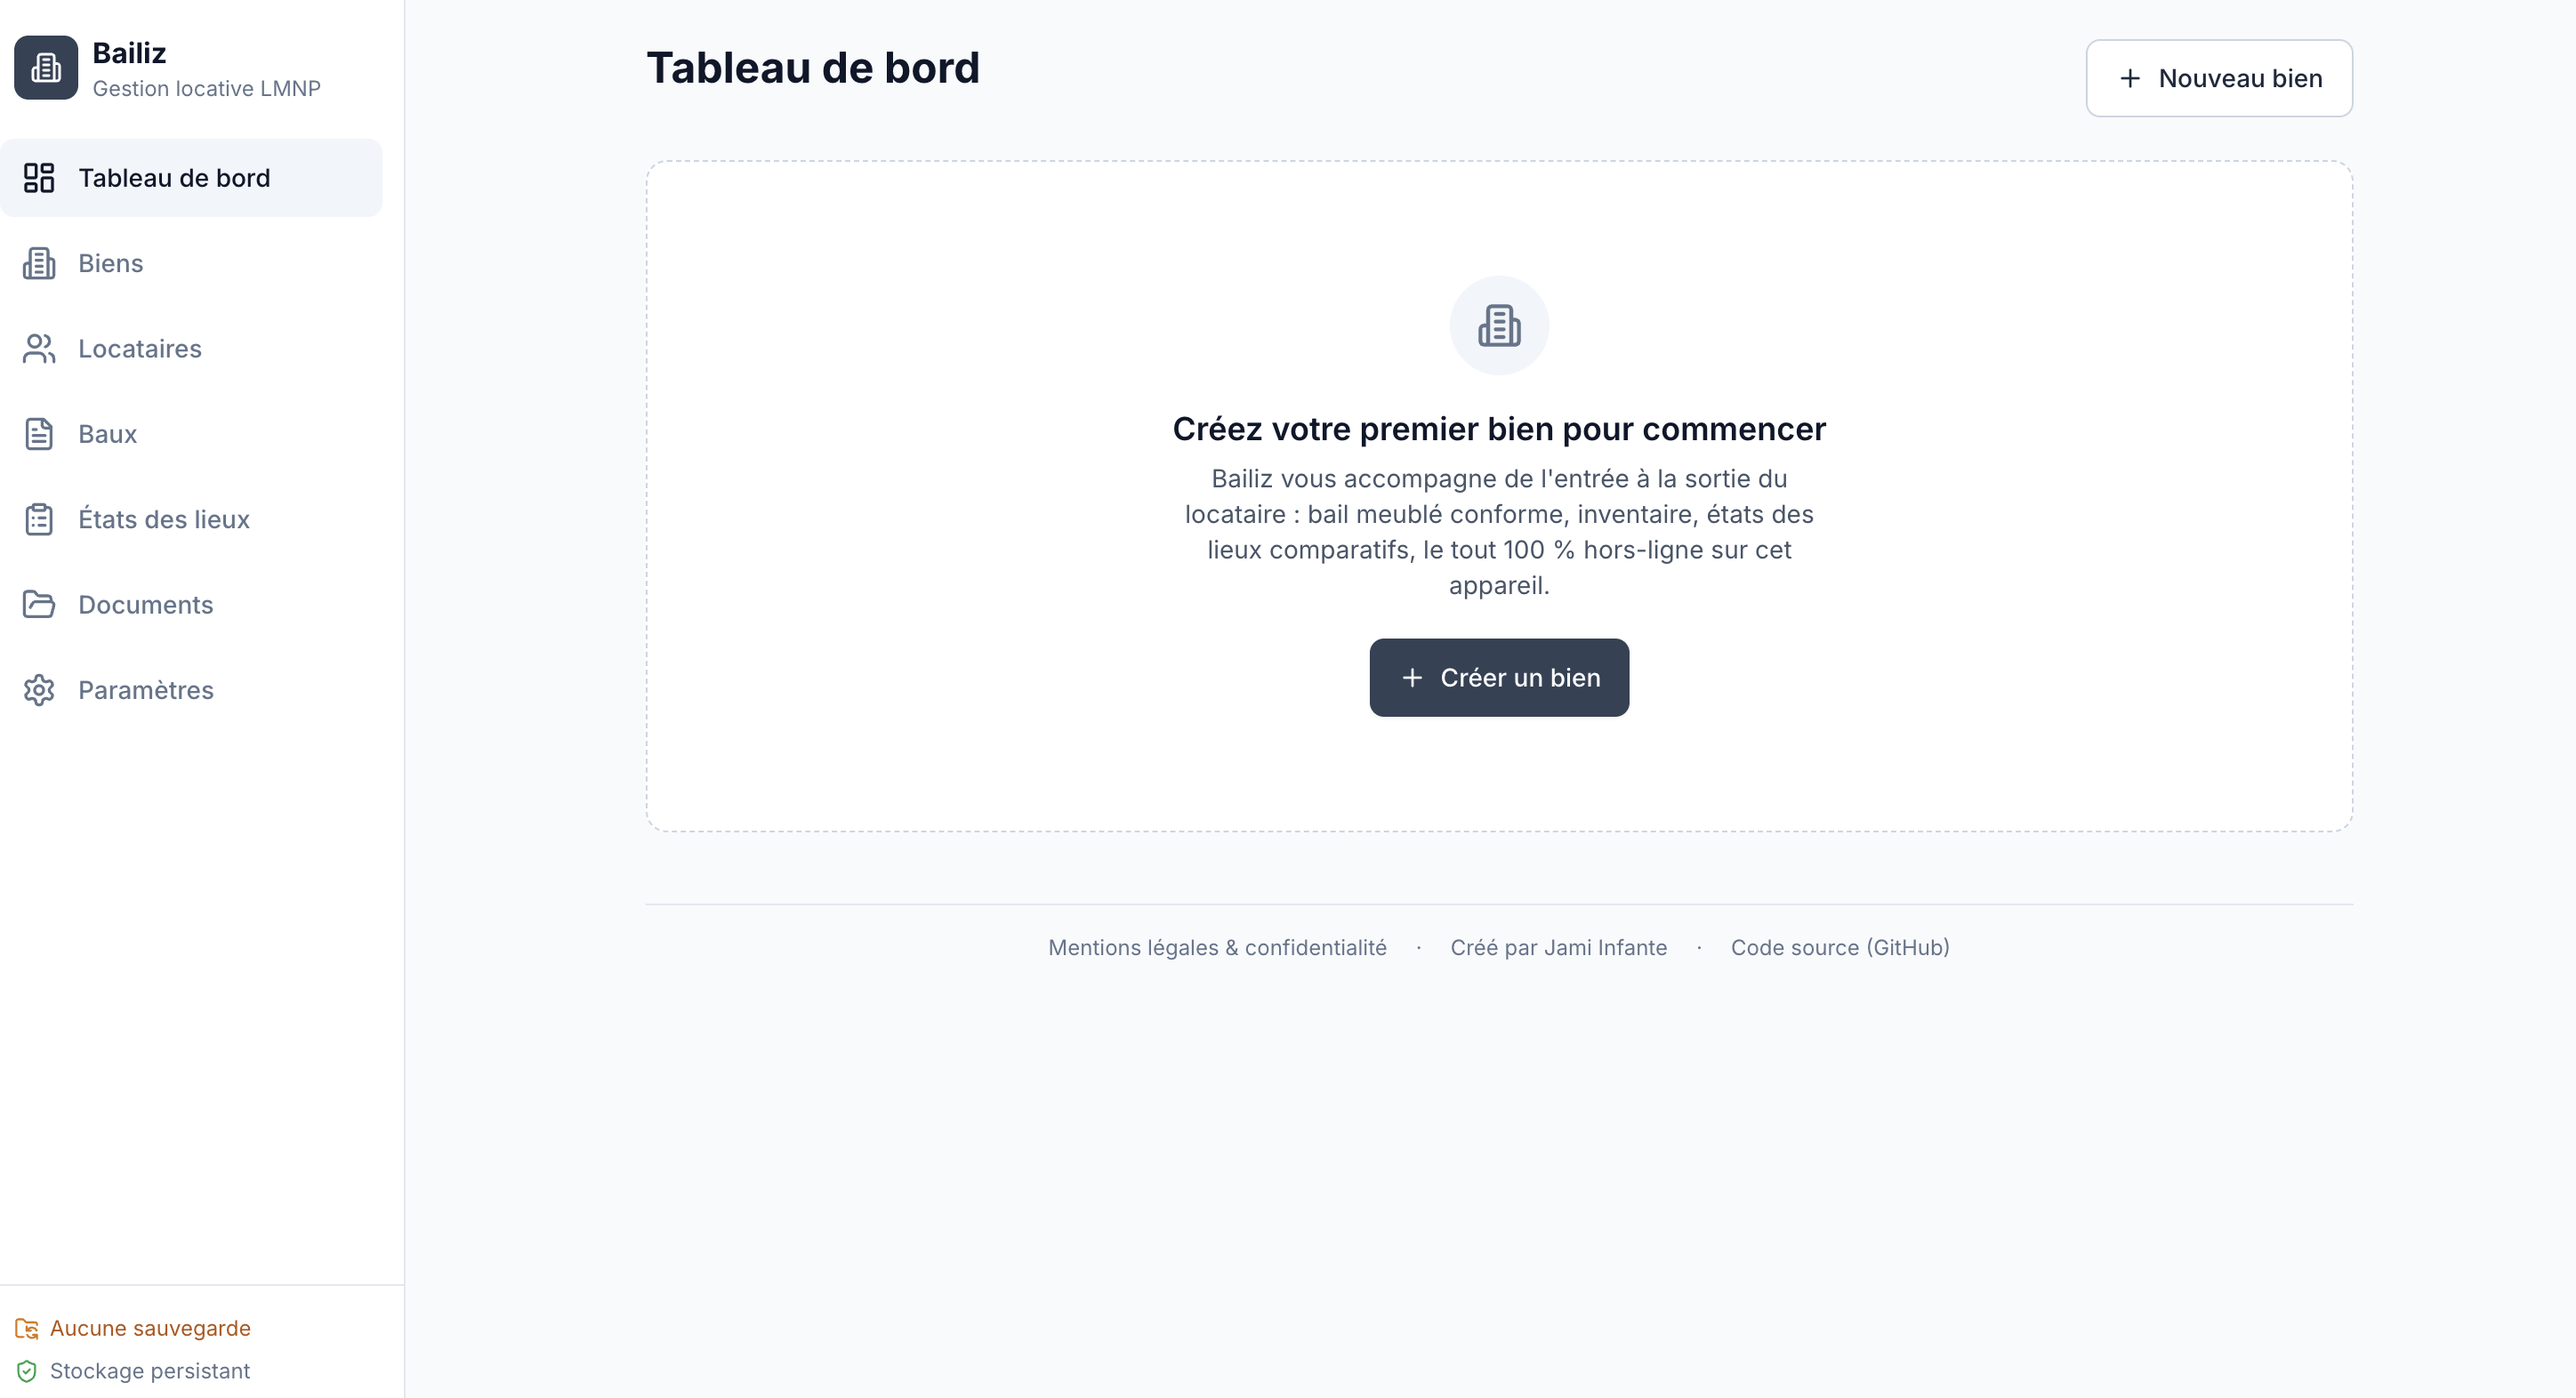
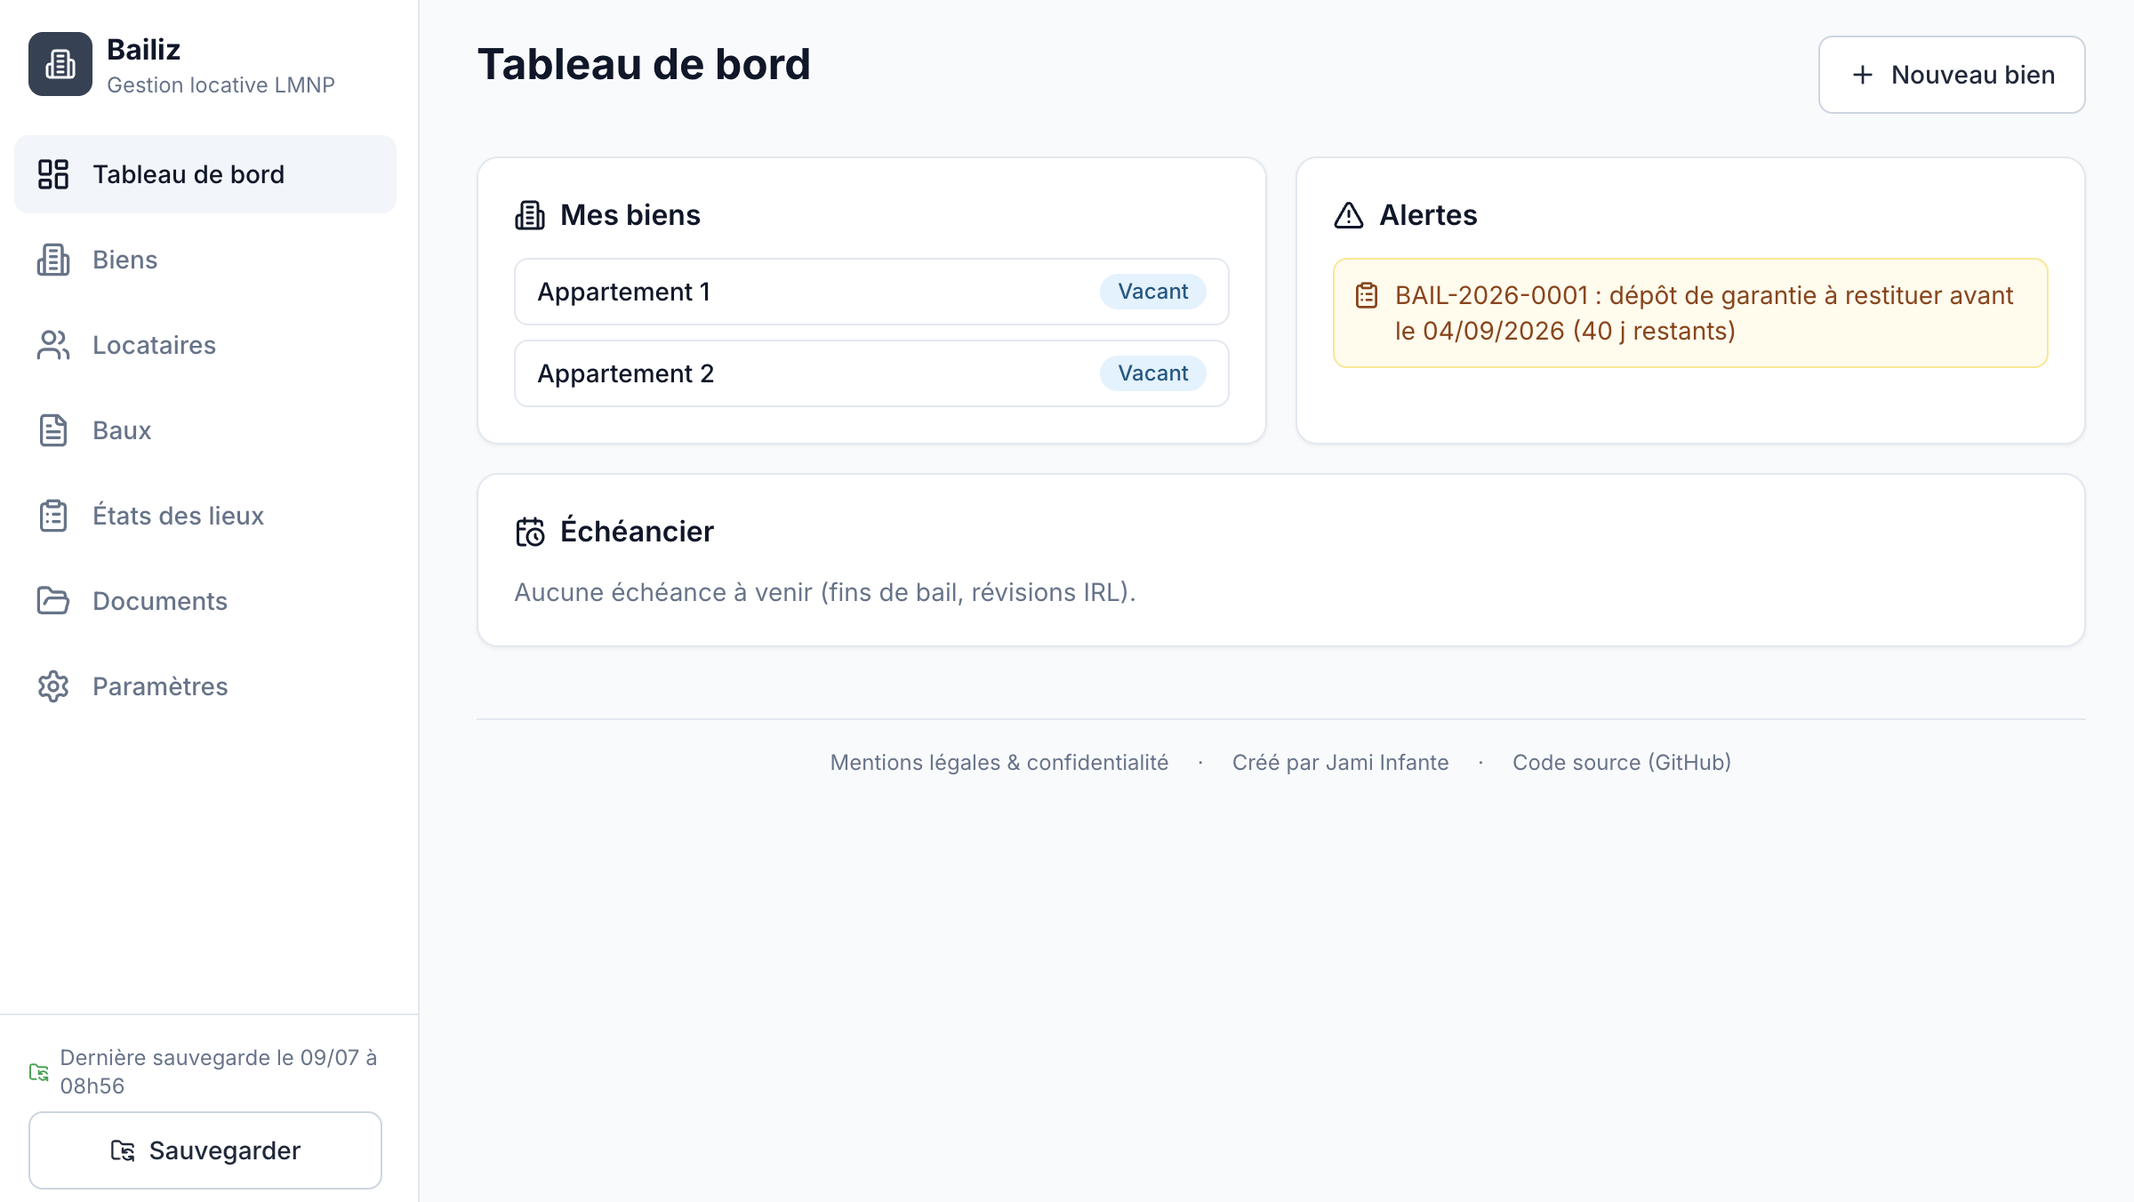
UPD : images projet + content

diff --git a/src/content/projects/portfolio-2026.md b/src/content/projects/portfolio-2026.md
@@ -25,7 +25,7 @@ crème / encre / vert acide, typographies Space Grotesk et Space Mono, cadres
 - **Design system de composants** - La typographie et les motifs récurrents
   (titres display, labels monospace, boutons, images encadrées, tags,
   surlignage accent) n'existent qu'à un seul endroit, sous forme de composants
-  Astro réutilisables. Ajouter une page, c'est composer - pas copier-coller.
+  Astro réutilisables.
 - **Contenu séparé de la présentation** - Un fichier Markdown par projet
   (Content Collections), avec un frontmatter **validé par un schéma zod au
   build** : la grille des projets, les fiches détaillées et les projets mis en
@@ -42,6 +42,6 @@ crème / encre / vert acide, typographies Space Grotesk et Space Mono, cadres
 
 ## Ce que j'ai appris
 
-Formaliser un design system minimal mais strict - et constater qu'un site
+Formaliser un design system minimal mais strict. Constater qu'un site
 peut être expressif visuellement tout en restant sobre techniquement : du
-HTML, du CSS, et presque rien d'autre.
+HTML, du CSS, et presque rien d'autre. Création d'un site portfolio montrable à des recruteurs, contenant bien plus qu'un simple CV, également un exemple de ce que je sais faire.

diff --git a/src/content/projects/portfolio-v1.md b/src/content/projects/portfolio-v1.md
@@ -1,0 +1,22 @@
+---
+title: "Portfolio V1"
+description: "Mon tout premier site portfolio, réalisé en React et Tailwind CSS. La version qui a précédé ce site : une page présentant mon profil, mon parcours et mes projets."
+metaDescription: "Premier portfolio de Jami Infante en React (Create React App) et Tailwind CSS : profil, parcours et projets. La version antérieure au site actuel."
+stack: ["React", "JavaScript", "Tailwind CSS", "Create React App"]
+image: "/projects/portfolio-2024-react.png"
+demo: "https://jami-inf.github.io/Jami-portfolio-react/"
+github: "https://github.com/Jami-INF/Jami-portfolio-react"
+order: 8
+featured: false
+date: "2024"
+---
+
+## À propos du projet
+
+La **première version** de mon portfolio, réalisée en **React** et stylée avec
+**Tailwind CSS**. Une application monopage qui présente mon profil, mon parcours
+et une sélection de projets.
+
+Ce projet m'a servi de terrain d'apprentissage sur React (composants, props,
+état) et sur l'intégration avec Tailwind. C'est la version qui a précédé le site
+actuel, entièrement repensé depuis.
